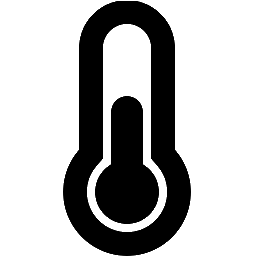
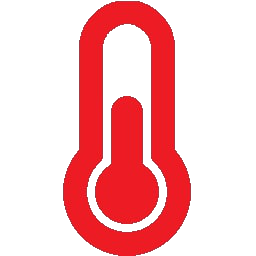
Cambio color al termometro

Changed region(s): [[0.2188, 0.0, 0.75, 1.0]]

diff --git a/packages/server/views/index.html b/packages/server/views/index.html
@@ -89,7 +89,6 @@
       </section>
     </div>
     <section class="station-bottom-section">
-      <hr>
       <div class="div-actual-bottom">
         <p class="estacion-actual-bottom introduccion">Si desea recibir e-mails con el estado del tiempo en:
           <span id="ViendoActualSuscripcion">El pendorcho</span>

diff --git a/packages/server/static/indexCss/estructura.css b/packages/server/static/indexCss/estructura.css
@@ -11,7 +11,7 @@ body {
   font-family: 'Open Sans', sans-serif;
   font-size: 1.2rem;
   line-height: 1.6;
-  color: #003B4A;
+  color: #fff;
   background-color: indigo;
 }
 
